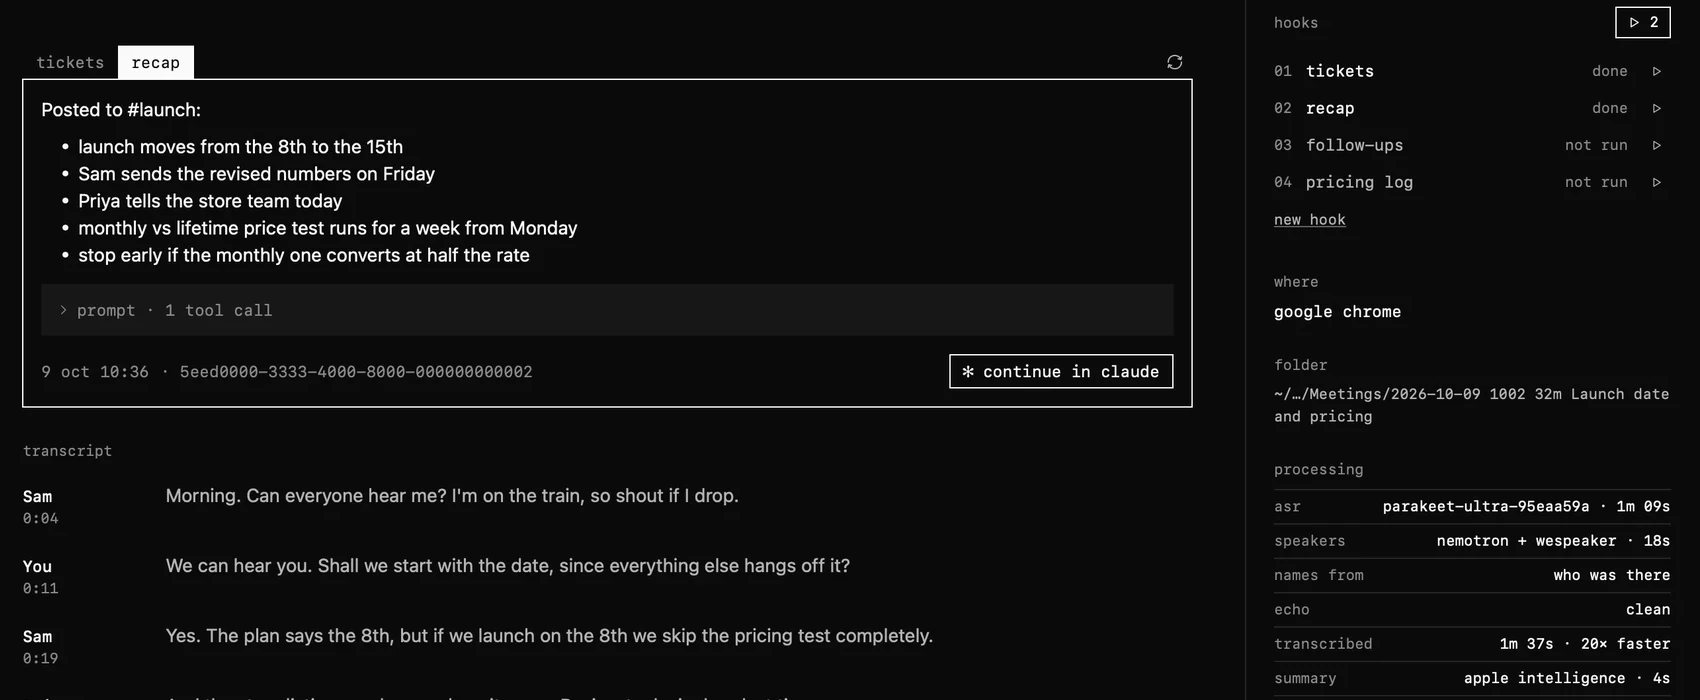
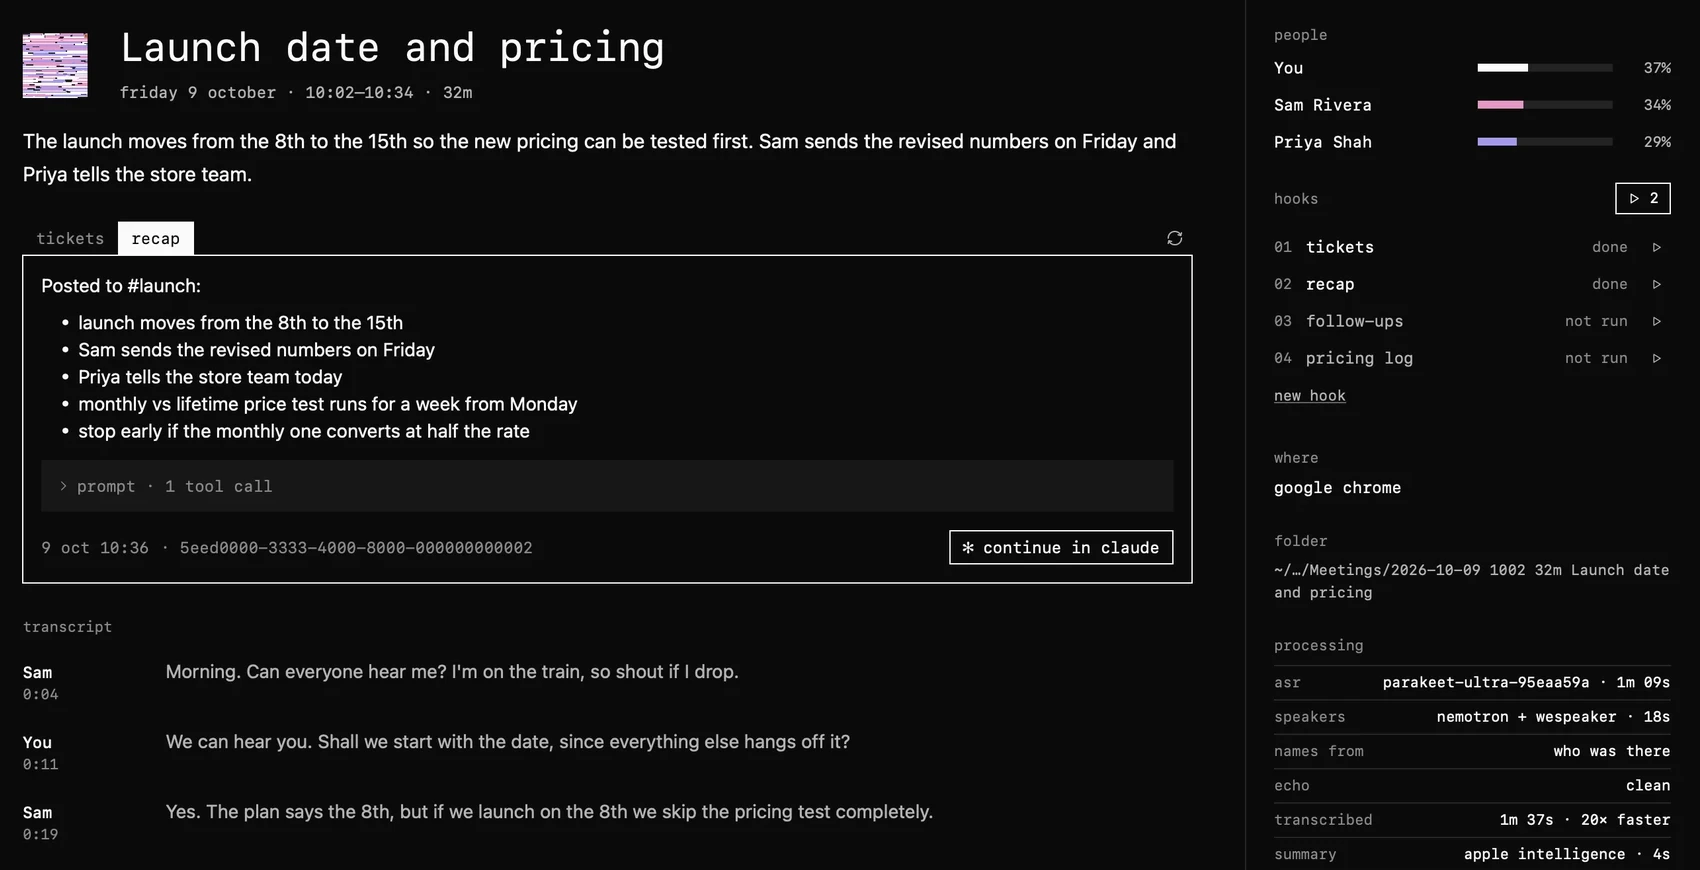
Show the title and people above hooks in the website's hooks shot
The crop started at the hooks heading, so with hooks now under people the
shot looked as if hooks sat at the top of the rail.

diff --git a/web/index.html b/web/index.html
@@ -422,7 +422,7 @@ a { color: inherit; }
       <div class="cap">
         <h3>hooks</h3>
         <p>prompts claude code runs once a meeting ends: open the tickets, post the recap, draft the follow-ups. run them from the pop-up when the meeting is saved, or from its page. they run at once, each with your mcp servers, and their replies sit at the top of the meeting’s page. pick any run up in the claude desktop app.</p>
-        <figure class="shot hooks-inline"><img src="shots/hooks.webp" width="1700" height="700" loading="lazy" decoding="async" alt="a meeting's page: the recap hook's slack post and the four hooks with which ran"></figure>
+        <figure class="shot hooks-inline"><img src="shots/hooks.webp" width="1700" height="870" loading="lazy" decoding="async" alt="a meeting's page: the recap hook's slack post and the four hooks with which ran"></figure>
       </div>
       <div class="cap">
         <h3>mcp</h3>
@@ -431,7 +431,7 @@ a { color: inherit; }
       </div>
     </div></div>
     <div class="cell pics"><div class="stick">
-      <figure class="shot hooks-wide"><img src="shots/hooks.webp" width="1700" height="700" loading="lazy" decoding="async" alt="a meeting's page: the recap hook's slack post and the four hooks with which ran"></figure>
+      <figure class="shot hooks-wide"><img src="shots/hooks.webp" width="1700" height="870" loading="lazy" decoding="async" alt="a meeting's page: the recap hook's slack post and the four hooks with which ran"></figure>
       <div class="term" role="img" aria-label="claude code answering a question from the meetings mcp"><pre><span class="dim">&gt;</span> what did sam say he'd send on friday?
 
 <span class="tool">search_meetings</span> <span class="dim">friday · 1 match</span>

diff --git a/Scripts/store/app/meeting.py b/Scripts/store/app/meeting.py
@@ -26,7 +26,7 @@ import time
 import uuid
 import wave
 
-from PIL import Image, ImageDraw
+from PIL import Image
 
 from capture import APP, DEFAULTS, HERE, ROOT, WINDOW_ID, clone_model, osascript
 
@@ -37,13 +37,9 @@ INSIGHTS_OUT = os.path.join(ROOT, "web", "shots", "insights.webp")
 SIZE = (2000, 1254)  # web/index.html's <img width> and height
 # Hooks live in the dev app's preferences, DEFAULTS.
 HOOKS_KEY = "meetingHooks"
-# The hook run card and the hooks list in the saved meeting shot, in its
+# The title, the hook run card, and people and hooks in the saved meeting shot, in its
 # pixels: left, top, right, bottom.
-HOOKS_CROP = (300, 296, 2000, 996)
-# The summary's last line ends level with the top of the hooks run button,
-# so the crop's strip over the article, in its own pixels, is painted over
-# with the page's background.
-SUMMARY_TAIL = (0, 0, 1240, 10)
+HOOKS_CROP = (300, 120, 2000, 990)
 
 ID = "5EED0000-0000-4000-8000-000000000001"
 STARTED = "2026-10-09T09:02:00Z"  # 10:02 in London
@@ -243,9 +239,7 @@ def main():
     try:
         seed(hook_runs=True)
         capture(HOOKS_OUT, ["-openMeeting", ID])
-        hooks = Image.open(HOOKS_OUT).crop(HOOKS_CROP)
-        ImageDraw.Draw(hooks).rectangle(SUMMARY_TAIL, fill=hooks.getpixel((SUMMARY_TAIL[2], SUMMARY_TAIL[3] + 1)))
-        hooks.save(HOOKS_OUT, "WEBP", quality=90)
+        Image.open(HOOKS_OUT).crop(HOOKS_CROP).save(HOOKS_OUT, "WEBP", quality=90)
         print(HOOKS_OUT)
         seed(hook_runs=False)
         capture(OUT, ["-openMeeting", ID])
